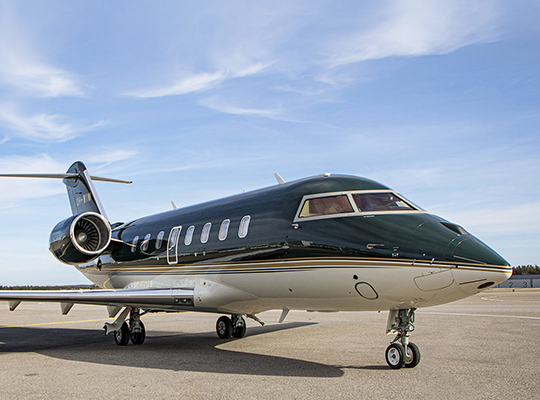
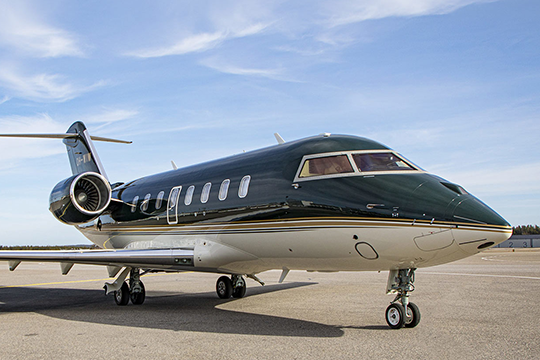
story page modification

diff --git a/story.html b/story.html
@@ -38,42 +38,62 @@
                 <div class="page-title-section__col2">
                     <h1 class="page-title-section__col2-heading">KonaElite
                         Exclusively Serving
-                        Private Aviation &
-                        Private Mega
-                        Yacht Industry</h1>
+                        the following
+                        Private Industries</h1>
                 </div>
             </div>
         </div>
         <div class="page-content-section">
-            <div class="double-column-image-container">
-                <picture>
-                    <source media="(min-width:992px)" srcset="assets/images/private-jet-image-lg.webp">
-                    <source media="(min-width:768px)" srcset="assets/images/private-jet-image-md.webp">
-                    <img src="assets/images/private-jet-image-xs.webp" alt="home page image one"
-                        class="double-column-image-container-images">
-                </picture>
-                <picture>
-                    <source media="(min-width:992px)" srcset="assets/images/private-jet-inside-image-lg.webp">
-                    <source media="(min-width:768px)" srcset="assets/images/private-jet-inside-image-md.webp">
-                    <img src="assets/images/private-jet-inside-image-xs.webp" alt="home page image three"
-                        class="double-column-image-container-images">
-                </picture>
-                <picture>
-                    <source media="(min-width:992px)" srcset="assets/images/yacht-image-lg.webp">
-                    <source media="(min-width:768px)" srcset="assets/images/yacht-image-md.webp">
-                    <img src="assets/images/yacht-image-md.webp" alt="home page image two"
-                        class="double-column-image-container-images">
-                </picture>
-
-                <picture>
-                    <source media="(min-width:768px)" srcset="assets/images/yacht-inside-image-md.webp">
-                    <img src="assets/images/yacht-inside-image-xs.webp" alt="home page image four"
-                        class="double-column-image-container-images">
-                </picture>
-            </div>
             <div class="slogan">
                 <img src="assets/images/kona-elite-slogan.webp" class="slogan-image" alt="slogan image">
             </div>
+            <div class="story-intro-pic">
+                <img src="assets/images/story-intro-pic.webp" class="story-intro-pic-image" alt="slogan image">
+            </div>
+            <div class="double-column-image-container">
+                <div class="double-column-image-container-item">
+                    <picture>
+                        <source media="(min-width:992px)" srcset="assets/images/private-jet-image-lg.webp">
+                        <source media="(min-width:768px)" srcset="assets/images/private-jet-image-md.webp">
+                        <img src="assets/images/private-jet-image-xs.webp" alt="home page image one"
+                            class="double-column-image-container-images">
+                    </picture>
+                    <h3 class="double-column-image-container-item-heading">Private Aviation</h3>
+                </div>
+                <div class="double-column-image-container-item">
+                    <picture>
+                        <source media="(min-width:992px)" srcset="assets/images/yacht-image-lg.webp">
+                        <source media="(min-width:768px)" srcset="assets/images/yacht-image-md.webp">
+                        <img src="assets/images/yacht-image-md.webp" alt="home page image two"
+                            class="double-column-image-container-images">
+                    </picture>
+                    <h3 class="double-column-image-container-item-heading">Private Yachting</h3>
+                </div>
+                <div class="double-column-image-container-item">
+                    <picture>
+                        <source media="(min-width:992px)" srcset="assets/images/selected-five-start-hotels-lg.webp">
+                        <source media="(min-width:768px)" srcset="assets/images/selected-five-start-hotels-md.webp">
+                        <img src="assets/images/selected-five-start-hotels-xs.webp" alt="home page image two"
+                            class="double-column-image-container-images">
+                    </picture>
+                    <h3 class="double-column-image-container-item-heading">Selected 5 Star Hotels</h3>
+                </div>
+                <div class="double-column-image-container-item">
+                    <picture>
+                        <source media="(min-width:992px)" srcset="assets/images/private-organizations-lg.webp">
+                        <source media="(min-width:768px)" srcset="assets/images/private-organizations-md.webp">
+                        <img src="assets/images/private-organizations-xs.webp" alt="private organizations"
+                            class="double-column-image-container-images">
+                    </picture>
+                    <h3 class="double-column-image-container-item-heading">Private Organizations</h3>
+                </div>
+            </div>
+
+            <div class="story-jazz-pic">
+                <img src="assets/images/story-jazz-pic.webp" class="story-jazz-pic " alt="story-jazz-pic">
+                <h3 class="double-column-image-container-item-heading">Smooth Jazz Industry</h3>
+            </div>
+
             <div class="story-description">
                 <p>Our "KonaElite" Kona coffee is custom roasted every order for the freshest taste in the industry.
                     Kona coffee is highly prized throughout the world for its full bodied flavour and pleasing aroma.

diff --git a/assets/css/styles.css b/assets/css/styles.css
@@ -288,7 +288,14 @@ img {
 
 @media only screen and (min-width: 768px) {
   .double-column-image-container img {
-    height: 500px;
+    height: 210px;
+    /* object-position: bottom; */
+  }
+}
+@media only screen and (min-width: 992px) {
+  .double-column-image-container img {
+    height: 360px;
+    /* object-position: bottom; */
   }
 }
 
@@ -302,6 +309,11 @@ img {
 .double-column-image-container-images {
   object-fit: cover;
   width: 100%;
+}
+
+.double-column-image-container-item-heading {
+  text-align: center;
+  margin-bottom: 0;
 }
 
 .site-footer {
@@ -349,12 +361,12 @@ img {
 
 .slogan {
   text-align: center;
-  padding-top: 50px;
+  padding-top: 0;
   padding-bottom: 30px;
 }
 @media only screen and (min-width: 1200px) {
   .slogan {
-    padding-top: 70px;
+    padding-top: 0;
     padding-bottom: 70px;
   }
 }
@@ -367,7 +379,15 @@ img {
 }
 
 .story-description {
+  margin-top: 40px;
 }
+
+@media only screen and (min-width: 992px) {
+  .story-description {
+    margin-top: 70px;
+  }
+}
+
 .story-description p {
   font-size: 18px;
   line-height: 23px;
@@ -626,4 +646,12 @@ img {
   .farm-photo-section__photo-grids-row {
     grid-gap: 30px;
   }
+}
+
+.story-intro-pic {
+  margin-bottom: 30px;
+}
+
+.story-jazz-pic {
+  margin-top: 30px;
 }
